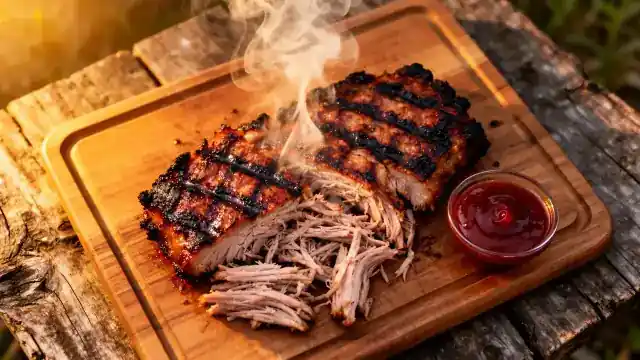
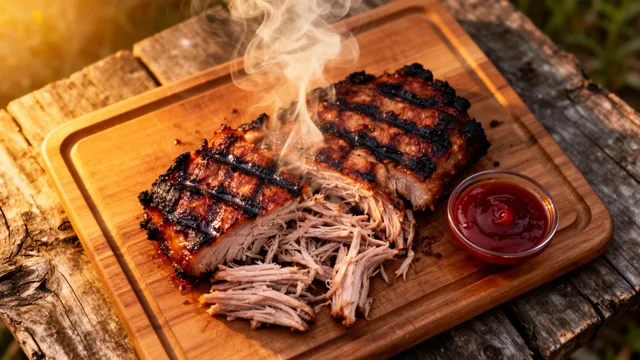
perf: hero picture — mobilní varianty + oprava homepage preloadu (#34)
* perf: hero picture — mobilní varianty pro správnou velikost na mobilu

* perf: homepage hero — opravit preload + doplnit retina varianty do picture

---------

diff --git a/src/components/article/HeroImage.tsx b/src/components/article/HeroImage.tsx
@@ -4,23 +4,50 @@ interface HeroImageProps {
   className?: string;
 }
 
-/** Derives the 2x variant path: /images/foo/hero.webp → /images/foo/hero@2x.webp */
+/** /images/foo/hero.webp → /images/foo/hero-mobile.webp */
+function getMobileSrc(src: string): string {
+  return src.replace(/(\.[^.]+)$/, "-mobile$1");
+}
+
+/** /images/foo/hero.webp → /images/foo/hero@2x.webp */
 function get2xSrc(src: string): string {
   return src.replace(/(\.[^.]+)$/, "@2x$1");
 }
 
 /**
- * Hero image with retina support via <picture>.
- * Looks for a @2x variant (e.g. hero@2x.webp) for retina displays.
- * If the 2x file doesn't exist, the browser silently falls back to src.
+ * Hero image with responsive + retina support via <picture>.
+ *
+ * Serves 4 variants (browser picks the first matching <source>):
+ *   mobile retina  — hero-mobile@2x.webp  (≤768px, ≥1.5x DPR)
+ *   mobile 1x      — hero-mobile.webp     (≤768px)
+ *   desktop retina — hero@2x.webp         (≥1.5x DPR)
+ *   desktop 1x     — hero.webp            (fallback)
+ *
+ * Missing variants are handled gracefully: if a <source> URL 404s,
+ * the browser falls back to the next <source> or the <img> src.
  */
 export function HeroImage({ src, alt, className }: HeroImageProps) {
-  const src2x = get2xSrc(src);
+  const mobileSrc = getMobileSrc(src);
+  const mobile2xSrc = get2xSrc(mobileSrc);
+  const desktop2xSrc = get2xSrc(src);
 
   return (
     <picture>
+      {/* Mobile retina */}
       <source
-        srcSet={src2x}
+        srcSet={mobile2xSrc}
+        media="(max-width: 768px) and (-webkit-min-device-pixel-ratio: 1.5), (max-width: 768px) and (min-resolution: 144dpi)"
+        type="image/webp"
+      />
+      {/* Mobile 1x */}
+      <source
+        srcSet={mobileSrc}
+        media="(max-width: 768px)"
+        type="image/webp"
+      />
+      {/* Desktop retina */}
+      <source
+        srcSet={desktop2xSrc}
         media="(-webkit-min-device-pixel-ratio: 1.5), (min-resolution: 144dpi)"
         type="image/webp"
       />

diff --git a/src/app/(cs)/page.tsx b/src/app/(cs)/page.tsx
@@ -20,14 +20,23 @@ export default function HomePage() {
 
   return (
     <>
-      {/* Preload hero — browser picks the matching source from <picture> below */}
-      <link rel="preload" as="image" href="/images/pulled-pork/hero.webp" fetchPriority="high" />
+      {/* Preload hero — matches <picture> sources below so the browser preloads the right variant */}
+      <link
+        rel="preload"
+        as="image"
+        href="/images/pulled-pork/hero.webp"
+        // @ts-expect-error — imagesrcset/imagesizes are valid HTML but not in React types yet
+        imagesrcset="/images/pulled-pork/hero-mobile.webp 640w, /images/pulled-pork/hero-mobile@2x.webp 1024w, /images/pulled-pork/hero.webp 1200w, /images/pulled-pork/hero@2x.webp 1920w"
+        imagesizes="(max-width: 768px) 100vw, 1200px"
+      />
 
       {/* ─── Hero ─────────────────────────────────────────────────────────────── */}
       <section className="relative min-h-screen overflow-hidden flex items-center">
-        {/* Background image — native <picture> for responsive serving without Next.js image optimization */}
+        {/* Background image — native <picture> for responsive + retina serving */}
         <picture>
+          <source media="(max-width: 768px) and (-webkit-min-device-pixel-ratio: 1.5), (max-width: 768px) and (min-resolution: 144dpi)" srcSet="/images/pulled-pork/hero-mobile@2x.webp" type="image/webp" />
           <source media="(max-width: 768px)" srcSet="/images/pulled-pork/hero-mobile.webp" type="image/webp" />
+          <source media="(-webkit-min-device-pixel-ratio: 1.5), (min-resolution: 144dpi)" srcSet="/images/pulled-pork/hero@2x.webp" type="image/webp" />
           <img
             src="/images/pulled-pork/hero.webp"
             alt="Pulled pork na grilu"
